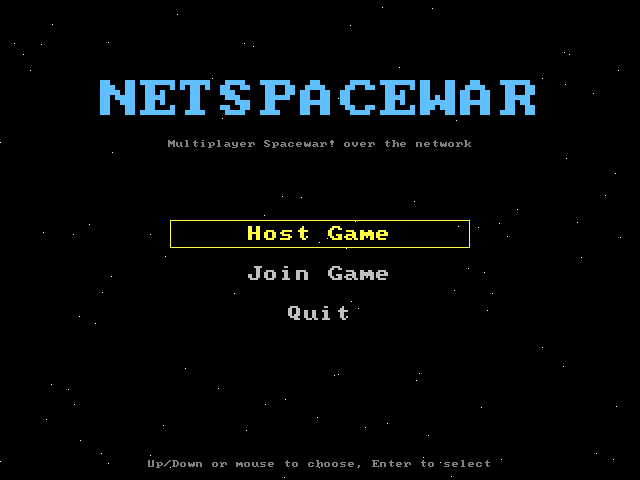
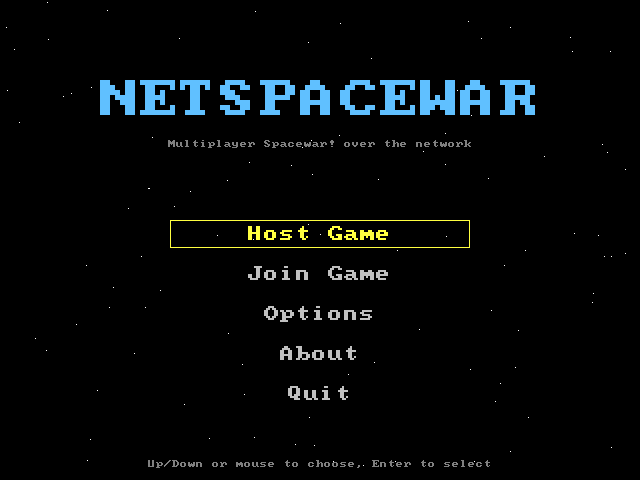
Replace the README screenshots with 1.2.0 ones
New pictures of the game (a volcano planet, a recharge orb, an enemy
ship and event messages), the main menu with Options and About, the
Host screen, the scrolling Game Settings, and a new one of the Join
screen listing games found on the network.

Changed region(s): [[0.4062, 0.625, 0.5938, 0.6875], [0.4375, 0.7812, 0.5625, 0.8438], [0.4375, 0.7188, 0.5625, 0.75]]

diff --git a/README.md b/README.md
@@ -1,7 +1,7 @@
 # NetSpaceWar
 Network based Space War: a multiplayer clone of Spacewar! Fly around a looping universe, dodge planets, and shoot down other players and AI bots.
 
-![A game in progress, with the scoreboard and game rules shown](docs/images/game.png)
+![A game in progress: a volcano planet, a recharge orb, an enemy ship, and messages about players joining](docs/images/game.png)
 
 ## Download
 
@@ -67,7 +67,7 @@ The icon is drawn by `res/make_icon.py` (`python res/make_icon.py` rewrites `res
 Run `NetSpaceWar` (on Windows, double-click `NetSpaceWar.exe`).
 
 <p>
-  <img src="docs/images/menu.png" width="48%" alt="The main menu: Host Game, Join Game, Quit">
+  <img src="docs/images/menu.png" width="48%" alt="The main menu: Host Game, Join Game, Options, About, Quit">
   <img src="docs/images/host.png" width="48%" alt="The Host a Game screen: name, port, AI bots, and the address others can join">
 </p>
 
@@ -75,8 +75,9 @@ Run `NetSpaceWar` (on Windows, double-click `NetSpaceWar.exe`).
   - **Game Settings** changes the rules for games you host: number of planets, gravity, missile life, top speed, crash and missile damage, the energy cost of shots and hyperjumps, how many planets start with volcanoes, how long a volcano waits between recharge orbs, how often asteroids drift in (None to Frequent; None by default), and the match length (Endless by default, or first to 500, 1000 or 5000 points). The list scrolls. Changed values are highlighted, and **Reset to Defaults** puts them all back. Everyone who joins, bots included, gets the host's rules: players see them by holding S.
 - **Join Game** connects to someone else's game by address and port. It also searches your local network and lists the games it finds (the host's name, address and players); choose one to fill in its address and port. **Find Games** searches again. Games running a different version are shown dimmed. Servers started with the address 0.0.0.0 answer searches on UDP port 27959.
 
-<p align="center">
-  <img src="docs/images/settings.png" width="60%" alt="The Game Settings screen, with planets, gravity and max speed changed from their defaults">
+<p>
+  <img src="docs/images/settings.png" width="48%" alt="The Game Settings screen, with planets, gravity and volcanoes changed from their defaults">
+  <img src="docs/images/join.png" width="48%" alt="The Join a Game screen, listing two games found on the local network">
 </p>
 
 Press Escape during a game to return to the menu. Your choices are remembered for next time.
